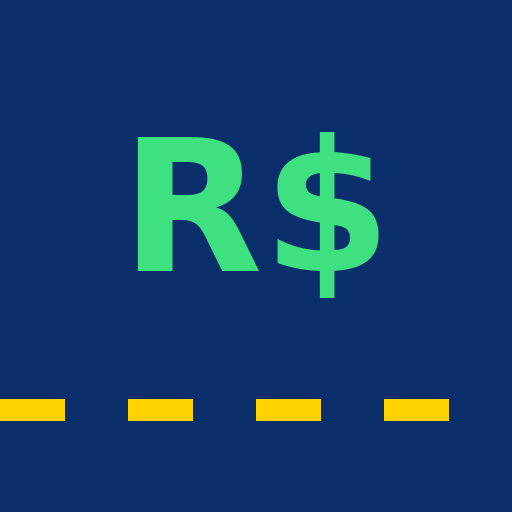
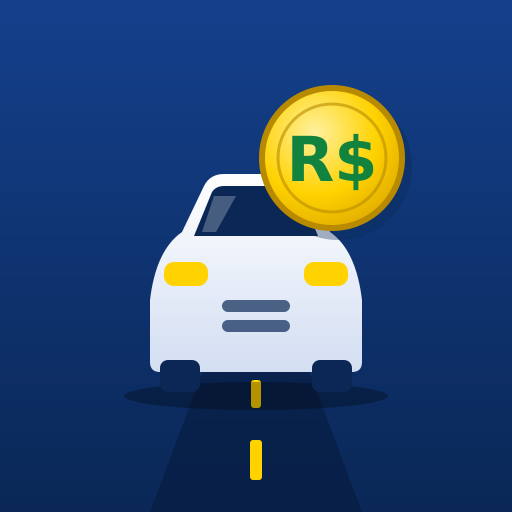
Novo ícone do app (carro + moeda R$)
Claude-Session: https://claude.ai/code/session_01NPGbk4PDsQxxs83nDZkNa6

diff --git a/sw.js b/sw.js
@@ -1,4 +1,4 @@
-const CACHE='meus-ganhos-v1';
+const CACHE='meus-ganhos-v2';
 const ARQ=['./','./index.html','./manifest.webmanifest','./icon-192.png','./icon-512.png','./jspdf.umd.min.js'];
 self.addEventListener('install',e=>{e.waitUntil(caches.open(CACHE).then(c=>c.addAll(ARQ)));self.skipWaiting()});
 self.addEventListener('activate',e=>{e.waitUntil(caches.keys().then(ks=>Promise.all(ks.filter(k=>k!==CACHE).map(k=>caches.delete(k)))));self.clients.claim()});
